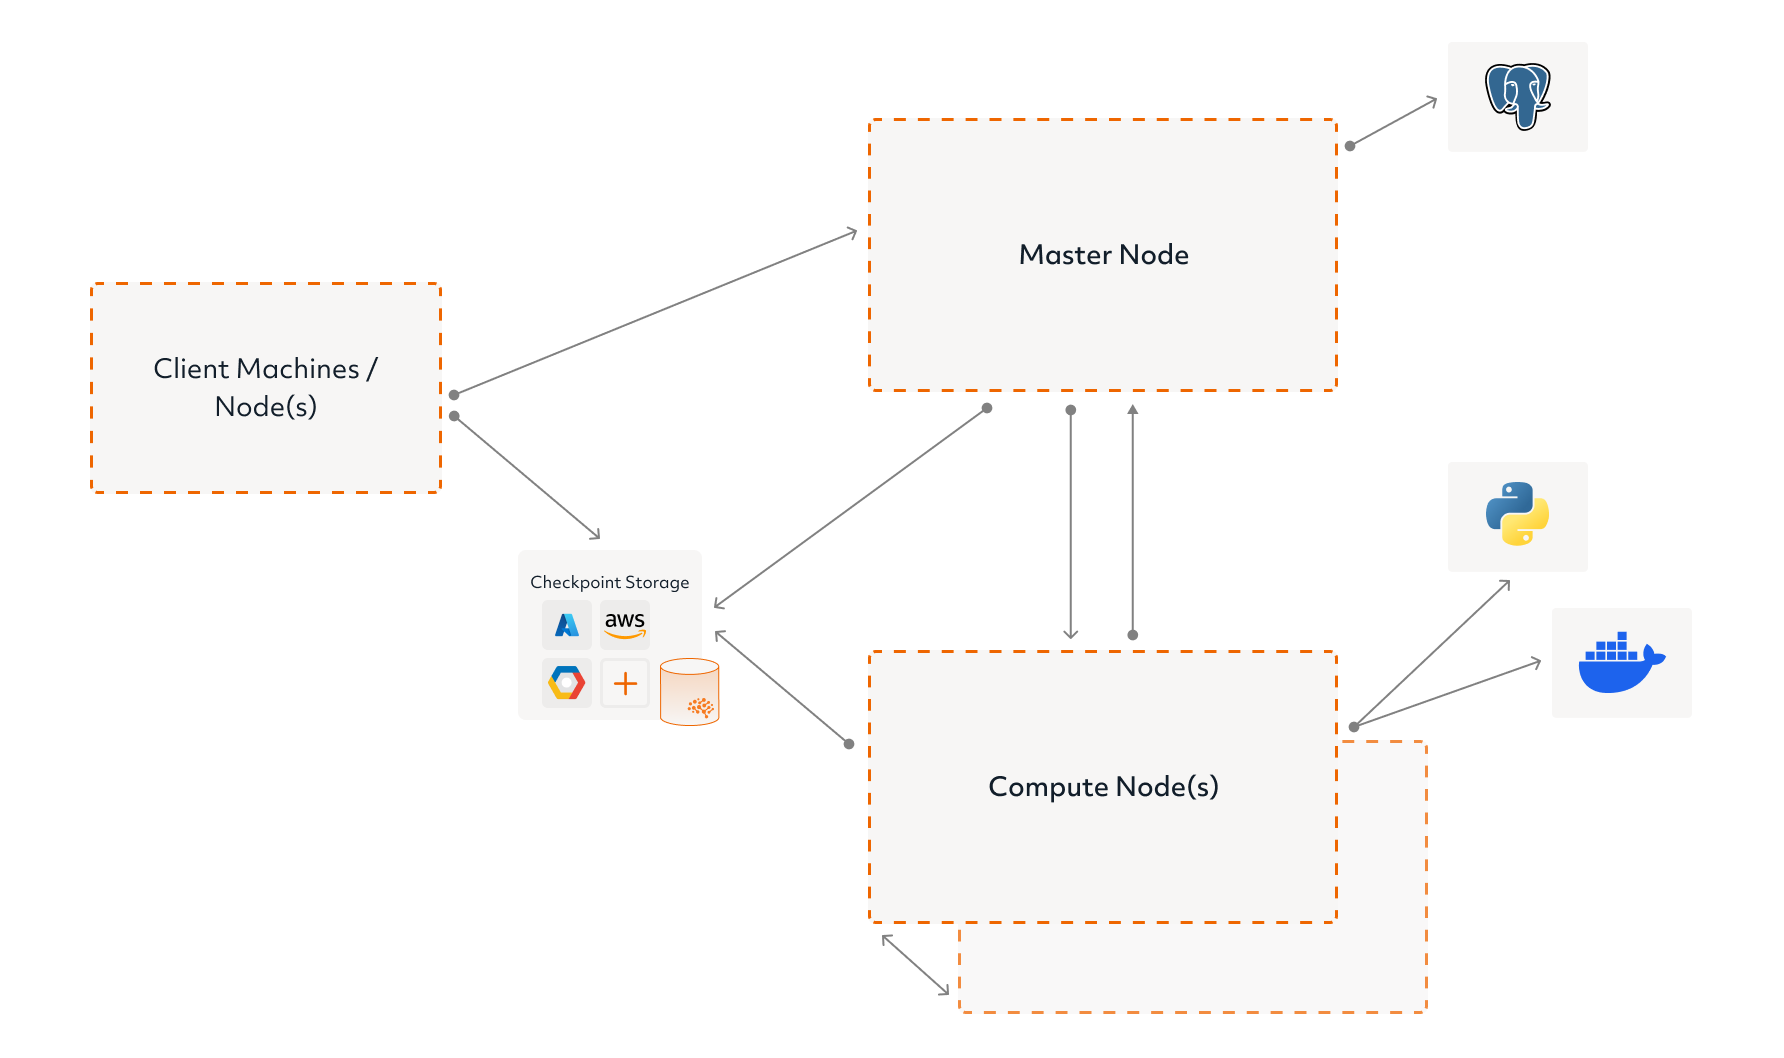
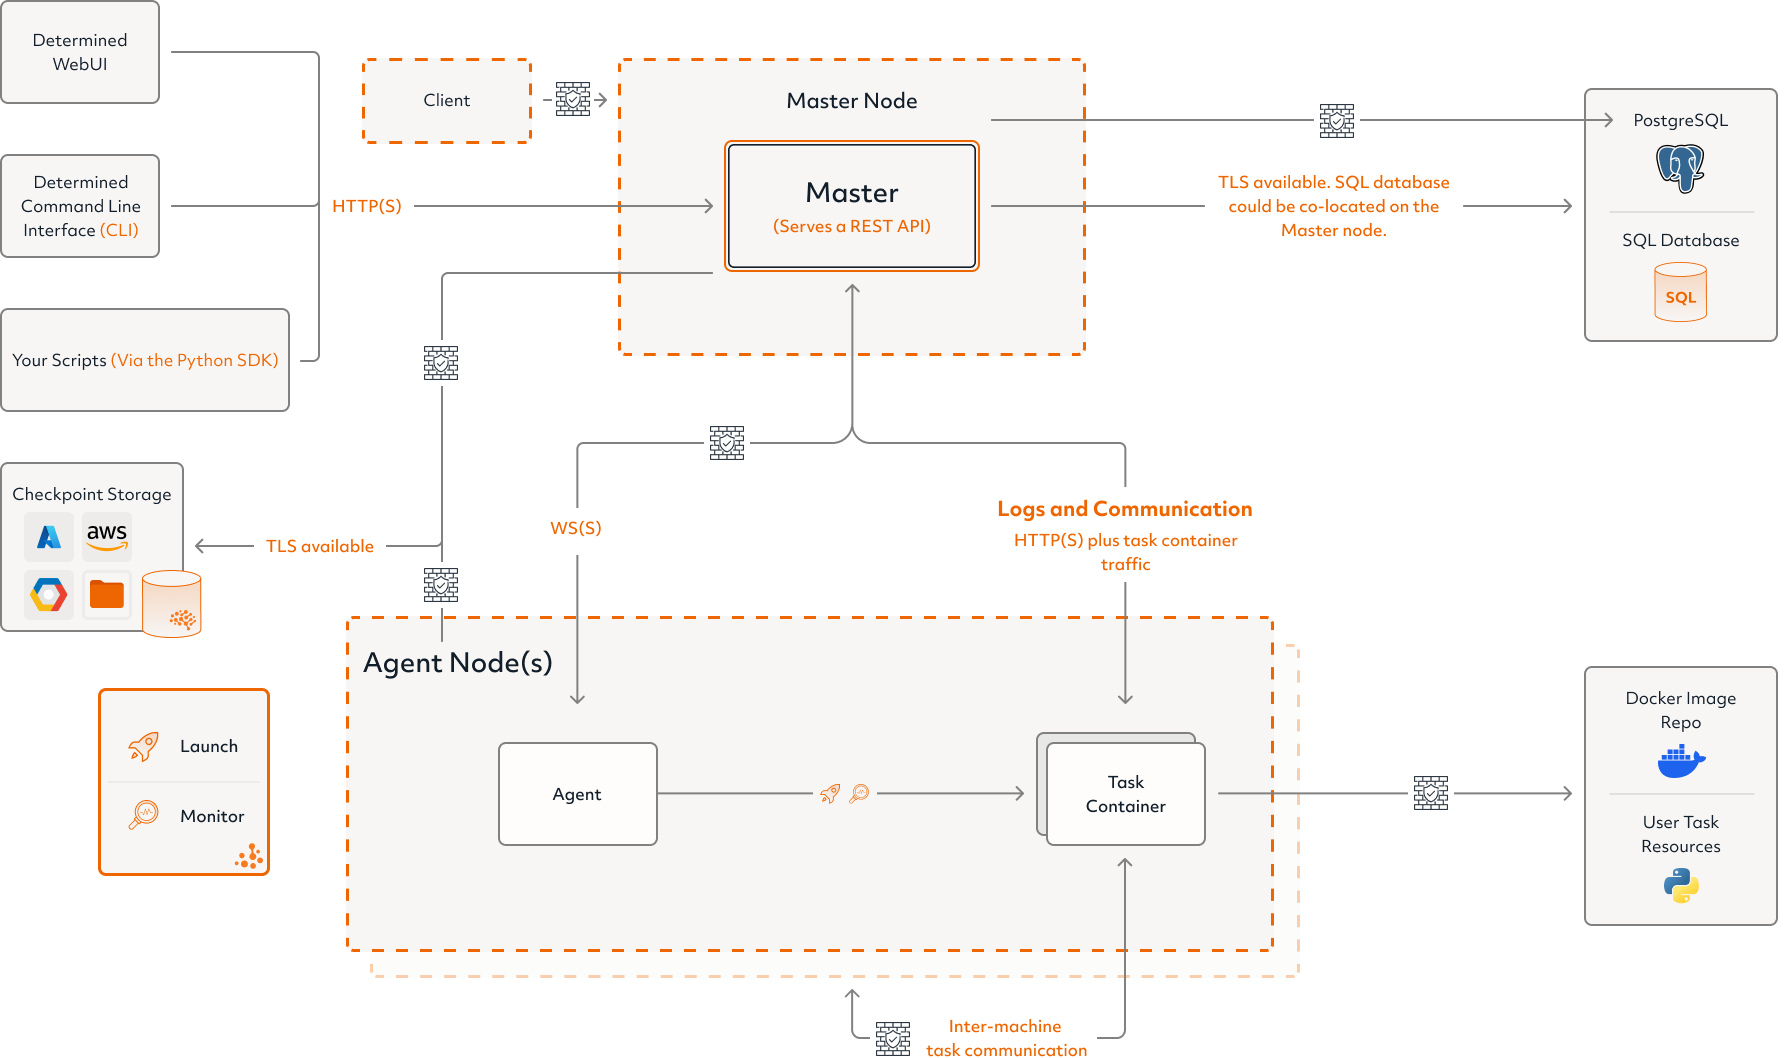
revised diagram

diff --git a/docs/get-started/architecture/system-architecture.rst b/docs/get-started/architecture/system-architecture.rst
@@ -7,17 +7,21 @@
 Determined consists of a single **master** and one or more **agents**. There is typically one agent
 per compute server; a single machine can serve as both a master and an agent.
 
-.. image:: /assets/images/_det-ai-sys-arch-01-dark.png
+.. image:: /assets/images/_det-ai-sys-arch-network-light.png
    :class: only-dark
-   :alt: Determined AI system architecture diagram describing master and agent components in dark mode
+   :alt: Determined AI system architecture diagram describing master and agent components including network connectivity traffic in dark mode
 
-.. image:: /assets/images/_det-ai-sys-arch-01-light.png
+.. image:: /assets/images/_det-ai-sys-arch-network-light.png
    :class: only-light
-   :alt: Determined AI system architecture diagram describing master and agent components in light mode
+   :alt: Determined AI system architecture diagram describing master and agent components including network connectivity traffic in light mode
 
 *Determined AI System Architecture*
 
 |
+
+*******
+ About
+*******
 
 The **master** is the central component of the Determined system. It is responsible for
 
@@ -37,3 +41,40 @@ agent has no state and only communicates with the master. Each agent is responsi
 The **task container** runs a training task or other task(s) in a containerized environment.
 Training tasks are expected to have access to the data that will be used in training. The **agents**
 are responsible for reporting the status of the **task container** to the master.
+
+.. _firewall-rules:
+
+.. _port-reference:
+
+**********************
+ Network Connectivity
+**********************
+
+When the system is configured according to the :ref:`setup requirements
+<advanced-setup-requirements>`, network traffic flows to and from the master and agents as follows:
+
+-  **Master-Compute Connection**: Compute nodes connect to the master node on the master's
+   configured port.
+
+-  **Inter-Compute Connection**: Compute nodes can connect to each other on any port.
+
+-  **Master-Compute Reverse Connection**: The master node can establish a connection to compute
+   nodes on any port.
+
+-  **Docker Image Access**: One of the following is true:
+
+   -  Compute nodes can access the Docker image repository, or
+   -  Compute nodes already contain the relevant pre-downloaded images.
+
+-  **Checkpoint Storage Access**:
+
+   -  Both compute nodes and the master node can access the desired checkpoint storage.
+   -  Optionally, client nodes can connect to checkpoint storage access for better performance.
+
+-  **Database Access**: The master node connects to PostgreSQL.
+
+-  **User Task Resources**: Compute nodes can reach any network resources necessary for user tasks,
+   such as fetching packages from PyPI.
+
+-  **Client-Master Connection**: Client machines can connect to the master node using the master's
+   configured port.

diff --git a/docs/setup-cluster/checklists/adv-requirements.rst b/docs/setup-cluster/checklists/adv-requirements.rst
@@ -30,50 +30,13 @@ For a successful TLS setup during installation, follow these guidelines:
       ``DET_MASTER_CERT_NAME`` and ``DET_MASTER_CERT_FILE``. Alternatively, they can adopt a
       trust-on-first-use approach.
 
-.. _firewall-rules:
-
-.. _port-reference:
-
 **********************
  Network Connectivity
 **********************
 
-Ensure your firewall rules allow traffic to and from the master and agents according to the
-following criteria:
-
--  **Master-Compute Connection**: Compute nodes must connect to the master node on the master's
-   configured port.
-
--  **Inter-Compute Connection**: Compute nodes should connect to each other on any port.
-
--  **Master-Compute Reverse Connection**: The master node must establish a connection to compute
-   nodes on any port.
-
--  **Docker Image Access**: Compute nodes should either:
-
-   -  Access the Docker image repository.
-   -  Already contain the relevant pre-downloaded images.
-
--  **Checkpoint Storage Access**:
-
-   -  Both compute nodes and the master node should access the desired checkpoint storage.
-   -  Optionally, client nodes having checkpoint storage access can lead to better performance.
-
--  **Database Access**: The master node should connect to PostgreSQL.
-
--  **User Task Resources**: Compute nodes must reach any network resources necessary for user tasks,
-   such as fetching packages from PyPI.
-
--  **Client-Master Connection**: Client machines should connect to the master node using the
-   master's configured port.
-
-.. image:: /assets/images/_det-ai-sys-arch-network-light.png
-   :class: only-dark
-   :alt: Determined AI system architecture diagram describing network connectivity traffic in dark mode
-
-.. image:: /assets/images/_det-ai-sys-arch-network-light.png
-   :class: only-light
-   :alt: Determined AI system architecture diagram describing network connectivity traffic in light mode
+Ensure your firewall rules allow traffic to and from the master and agents according to the criteria
+described by the :ref:`system architecture diagram <system-architecture>` and :ref:`network
+connectivity rules <firewall-rules>`.
 
 .. _internet-access:
 
